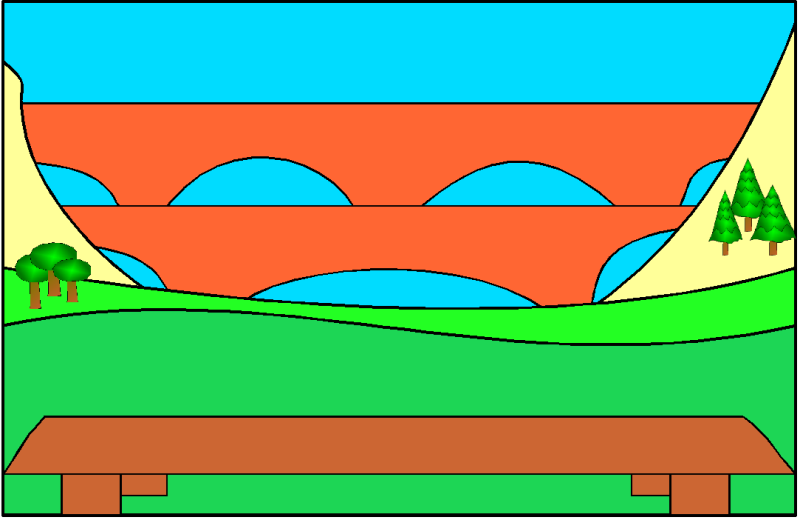
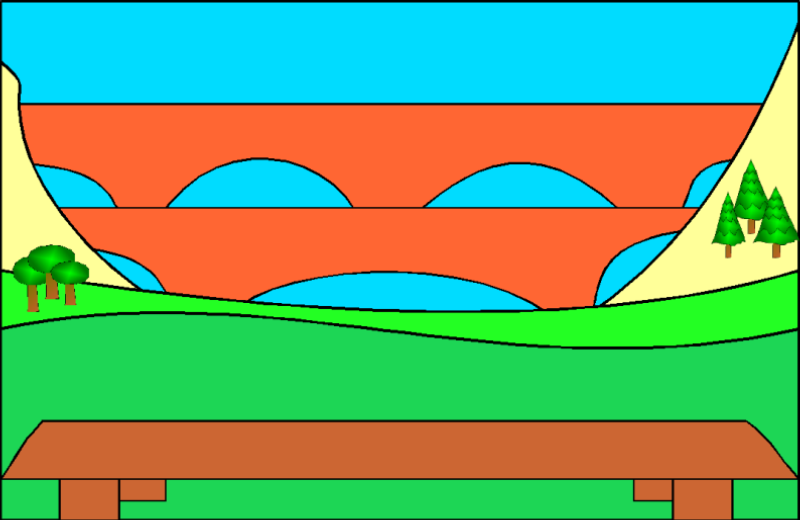
fixed the edge updated help fixed name for web site moved the ? a little
* boards/images/scenery5_background.png: fixed the edge
	* boards/menu.xml.in: updated help
	* boards/missing_letter.xml.in: fixed name for web site
	* src/boards/python/algorithm.py: moved the ? a little bit
	* src/gcompris/gcompris.c: (setup_window): changed the intro message for win users

diff --git a/src/gcompris/gcompris.c b/src/gcompris/gcompris.c
@@ -1,6 +1,6 @@
 /* gcompris - gcompris.c
  *
- * Time-stamp: <2004/06/05 01:22:57 bcoudoin>
+ * Time-stamp: <2004/06/06 23:18:09 bcoudoin>
  *
  * Copyright (C) 2000-2003 Bruno Coudoin
  *
@@ -490,12 +490,12 @@ static void setup_window ()
 
   init_background();
 
-#ifdef WIN32
+  //#ifdef WIN32
   if(strncmp(properties->key, "thanks_for_your_help", 20)!=0) {
     board_pause();
-    gcompris_dialog(_("This is a Demo version of gcompris,\nonly 12 on 45 activities are available.\nTo get the full version,\ngo to http://www.ofset.org/order/gcompris"), NULL);
+    gcompris_dialog(_("GCompris is free software released under the GPL License. In order to support the development, the Windows version provides only 12 of the 45 activities. You can get the full version for a small fee at\nhttp://www.ofset.org/order/gcompris\nThe Linux version has not this restriction. Note that gcompris is being developped to free schools from monopolistic software vendors. If you also believe that we should teach freedom to kids, please consider using GNU/Linux. Get more information on\nhttp://www.fsf.org/philosophy"), NULL);
   }
-#endif
+  //#endif
 }
 
 void gcompris_end_board()

diff --git a/src/boards/python/algorithm.py b/src/boards/python/algorithm.py
@@ -146,7 +146,7 @@ class Gcompris_algorithm:
   def paint_qm (self):
     self.qm = self.rootitem.add(gnome.canvas.CanvasText, text = "?", 
      x = self.place*self.distance+30+self.leftx, 
-     y = 170, fill_color_rgba = 0xff0000ffL, 
+     y = 185, fill_color_rgba = 0xff0000ffL, 
      font = gcompris.skin.get_font("gcompris/board/huge bold"))
     
   def key_press(self, keyval):
